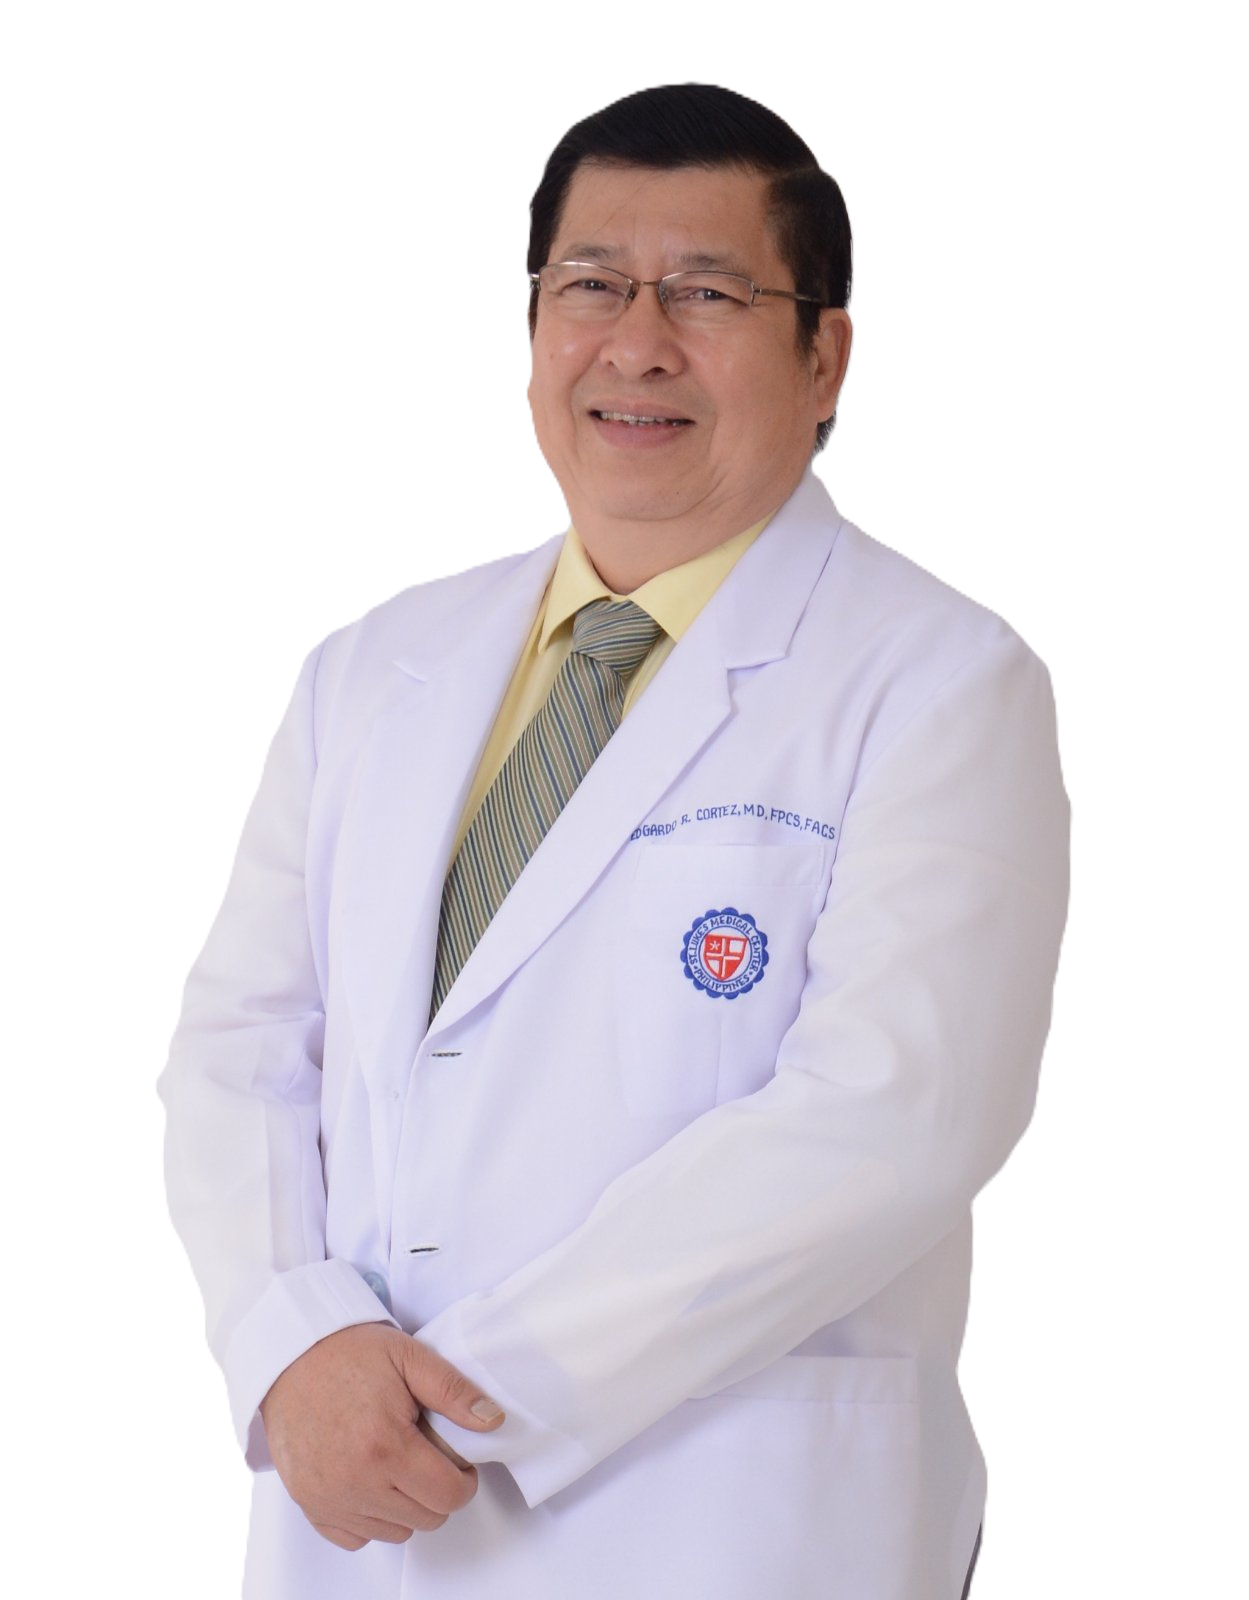
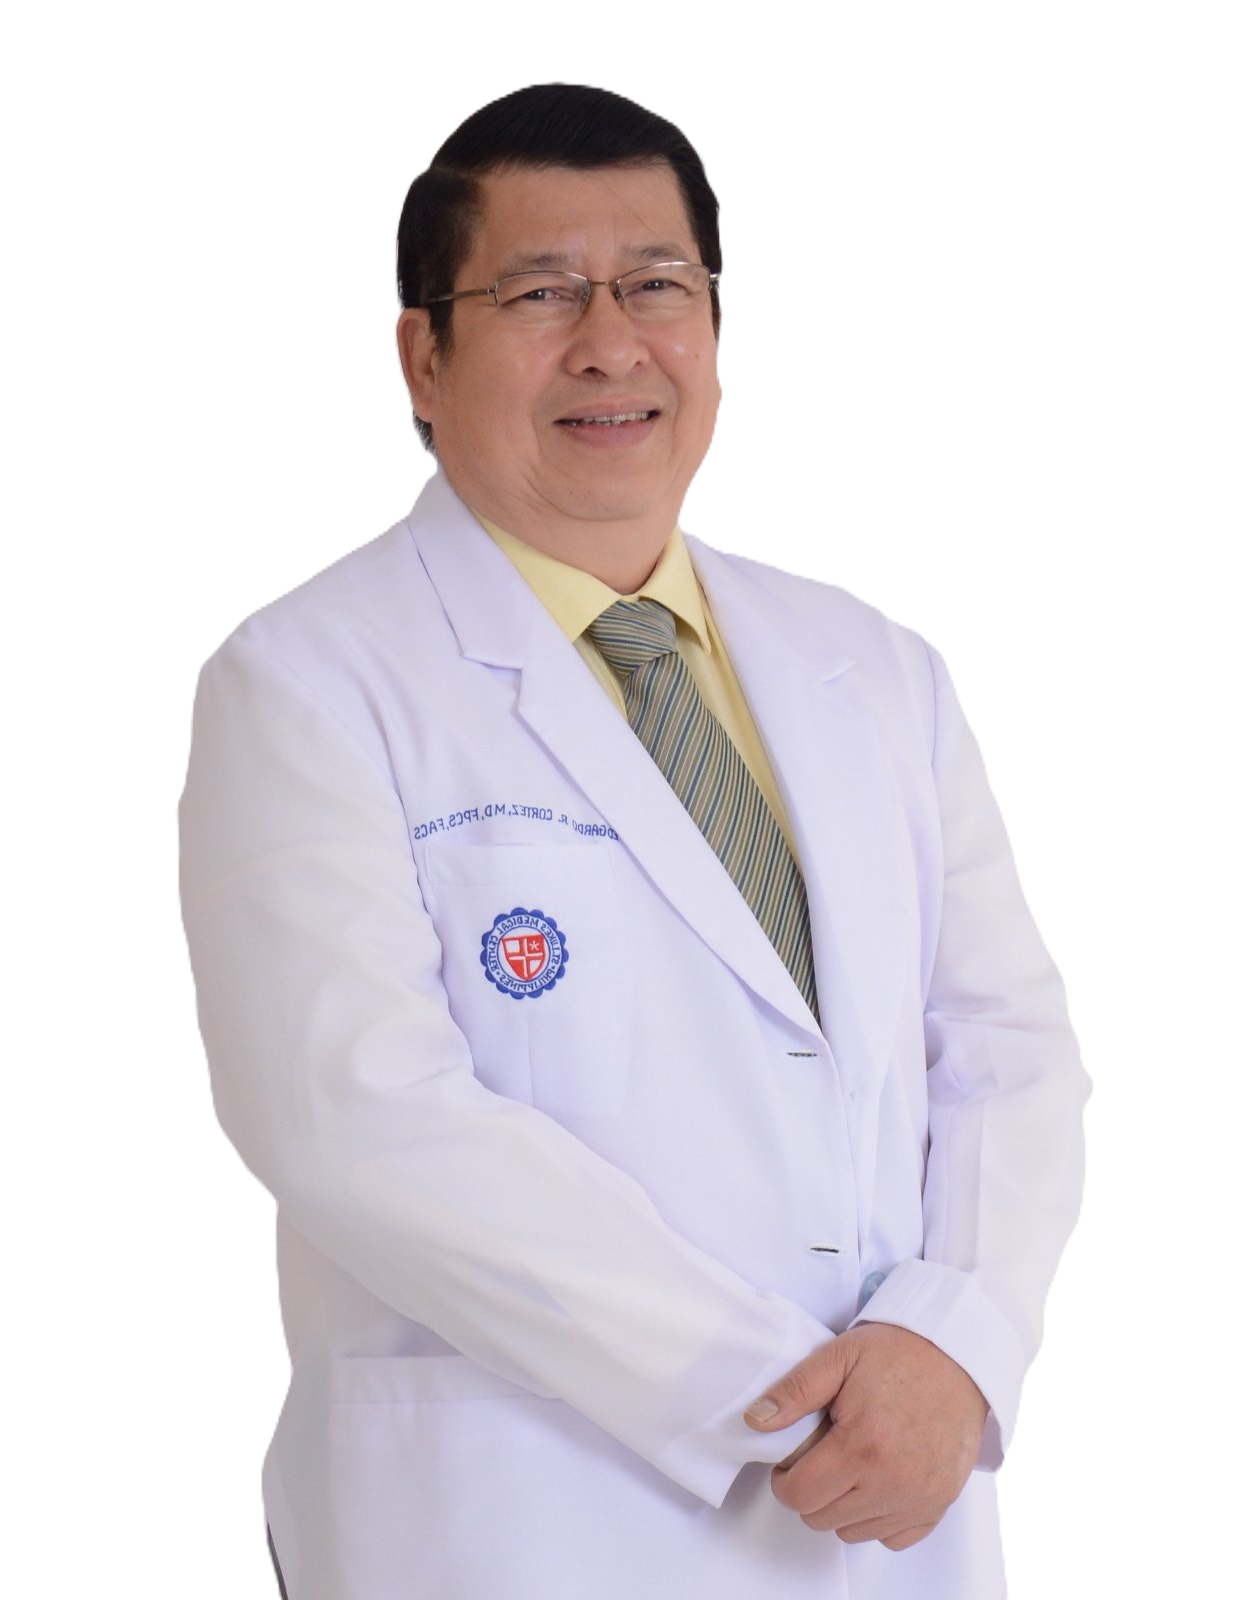
Update: Solo pages, About and DocsCards + uploaded some assets

diff --git a/src/components/DrRaymundo.jsx b/src/components/DrRaymundo.jsx
@@ -1,18 +1,17 @@
 import { motion } from 'framer-motion';
-import aboutImg from "../assets/aboutdoc.jpg";
-import { ABOUT_TEXT } from "../constants";
 import Navbar from './Navbar';
 import Blank from "../assets/blank.jpg";
 import { FaPhone } from "react-icons/fa6";
 import { MdOutlinePinDrop } from "react-icons/md";
+import DraRaymundo from "../assets/DraRaymundo.jpg";
 
 const DrRaymundo = () => {
   return (
 <div>
   <div className="container mx-auto px-8">
     <Navbar />
-    <div id="aboutDrRaymundo" className="scroll-mt-32 border-b border-neutral-900 pb-10 pt-12">
-            <div className="flex flex-wrap pt-10 pb-24">
+    <div id="aboutDrRaymundo" className="scroll-mt-32 border-b border-neutral-900 pb-8 pt-12">
+            <div className="flex flex-wrap pt-10">
               <motion.div
                 whileInView={{ opacity: 1, x: 0 }}
                 initial={{ opacity: 0, x: -100 }}
@@ -72,8 +71,8 @@ const DrRaymundo = () => {
                 initial={{ opacity: 0, x: 0 }}
                 transition={{ duration: 1.5 }}
                 className="w-full lg:w-1/2 lg:p-8">
-                <div className="flex items-center justify-center">
-                  <img className="rounded-lg w-4/5" src={Blank} alt="about" />
+                <div className="flex items-center justify-center pt-2">
+                  <img className="rounded-lg w-4/5" src={DraRaymundo} alt="about" />
                 </div>
               </motion.div>
             </div>

diff --git a/src/components/DrCortez.jsx b/src/components/DrCortez.jsx
@@ -10,7 +10,7 @@ const DrCortez = () => {
 <div>
   <div className="container mx-auto px-8">
     <Navbar />
-    <div id="aboutDrCortez" className="scroll-mt-32 border-b border-neutral-900 pb-10 pt-12">
+    <div id="aboutDrCortez" className="scroll-mt-32 border-b border-neutral-900 pb-8 pt-12">
             <div className="flex flex-wrap pt-10">
               <motion.div
                 whileInView={{ opacity: 1, x: 0 }}
@@ -79,7 +79,7 @@ const DrCortez = () => {
                 initial={{ opacity: 0, x: 0 }}
                 transition={{ duration: 1.5 }}
                 className="w-full lg:w-1/2 lg:p-8">
-                <div className="flex items-center justify-center">
+                <div className="flex items-center justify-center pt-2">
                   <img className="rounded-lg w-4/5" src={DrCortezImg} alt="about" />
                 </div>
               </motion.div>

diff --git a/src/components/DrHipolito.jsx b/src/components/DrHipolito.jsx
@@ -77,7 +77,7 @@ const DrHipolito = () => {
                 transition={{ duration: 1.5 }}
                 className="w-full lg:w-1/2 lg:p-8">
                   <div className="flex items-center justify-center pt-2">
-                    <img className="rounded-lg" src={DrHipolitoImg} alt="about" />
+                    <img className="rounded-lg w-4/5" src={DrHipolitoImg} alt="about" />
                   </div>
               </motion.div>
             </div>

diff --git a/src/components/DocsCards.jsx b/src/components/DocsCards.jsx
@@ -4,7 +4,7 @@ import { motion } from "framer-motion";
 import ImageCard from "./ImageCard";
 import DrCortez from "../assets/DrCortez.png";
 import { Link } from "react-router-dom";
-import DrRaymundo from "../assets/DrRaymundo.png";
+import DrRaymundo from "../assets/DraRaymundo.png";
 
 const DocsCards = () => {
     return (

diff --git a/src/components/About.jsx b/src/components/About.jsx
@@ -4,6 +4,7 @@ import { motion } from "framer-motion";
 import DrCortez1 from "../assets/docCortez1.jpg";
 import DrHipolitoDrCortez from "../assets/DrHipolito&DrCortez.jpg";
 import DrRaymundo1 from "../assets/docRaymundo.jpg";
+import DrHipolitoScrub from "../assets/DrHipolitoScrub.jpg";
 
 const About = () => {
     return (
